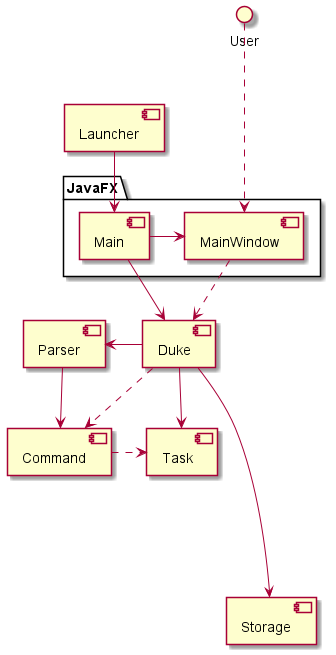
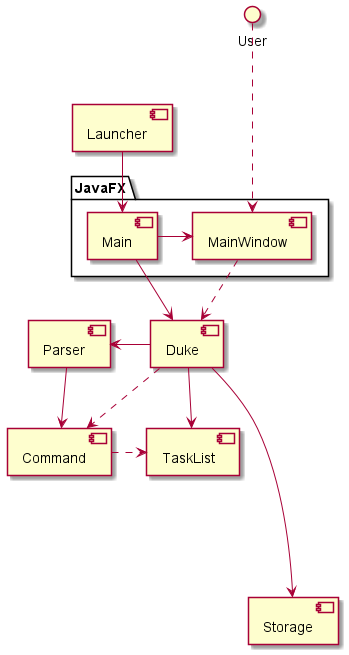
Rename Task to TaskList

diff --git a/docs/DeveloperGuide.md b/docs/DeveloperGuide.md
@@ -14,5 +14,5 @@ The *Architecture Diagram* above explains the high-level design of the app.
 * `Duke`: Main control of back-end logic.
 * `Parser`: Make sense of user input.
 * `Command`: Execute instruction.
-* `Task`: Hold app data in memory.
+* `TaskList`: Hold app data in memory.
 * `Storage`: Read data from and write data to hard disk.
